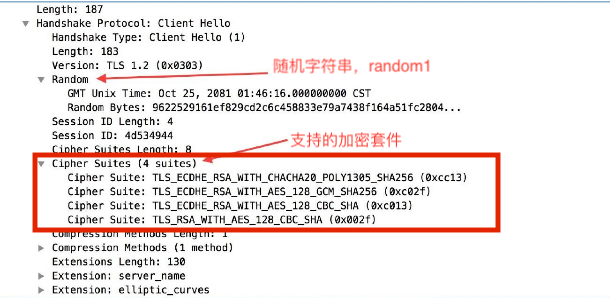
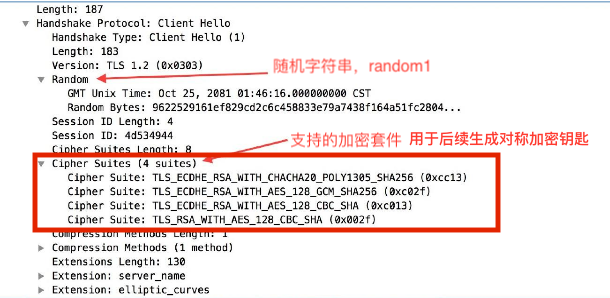
https

Changed region(s): [[0.6541, 0.4228, 0.9656, 0.5134]]

diff --git a/network/http/https.md b/network/http/https.md
@@ -25,7 +25,7 @@ ___
 
 
 ##### 对称加密 和 非对称加密
-1⃣ 非对称加密的`公钥`只能够用于加密，非对称加密的`私钥`既能加密也能够解密
+1⃣ 非对称加密中`公钥`加密只有私钥可以解开，`私钥`加密只有公钥能够解开。
 2⃣ 对称加密速度快，可以加密的信息量较大
 3⃣ 非对称加密算法复杂，加密解密速度慢，一般用于少量信息加密
   
@@ -41,6 +41,14 @@ ___
 1⃣ `SSL`（Security Socket Layer）是一种广泛运用在互联网上的资料加密协议；`TLS`是`SSL`的下一代协议。  
 2⃣ `SSL`证书 (Certificate) 像身分证一般可以在互联网上证明自己的身份。在资料的加密传输开始之前，服务器透过“有效”的`SSL`证书告诉用户端自己是值得信赖的服务器  
 3⃣ 目前`SSL`大部分是收费的，但是自己生成的`SSL`证书又不能被浏览器所信任，即不安全。
+
+### 前提工作  
+> 本段中(A与A'，B与B')表示两对非对称加密的公钥和私钥。
+
+1⃣  服务端会将准备永福通信加密的公钥(A)送到权威证书机构(CA)，CA会用一个证书将这把送过来的公钥(A)使用非对称私钥(B')进行加密。          
+![](/blog_assets/FF_CERTIFICATE.png)
+2⃣ 权威机构也会在客户的操作系统中预先安装证书，里面存放着该机构的公钥(B)，用于验证服务器发过来的证书是否合法。   
+3⃣ 这里还有一个服务端私钥(A'),会在传输`pre-master`中用到。            
 
 ### SSL\TSL 握手流程
 
@@ -75,15 +83,19 @@ ___
 > Server Hello Done 通知客户端 Server Hello 过程结束
 
 
-#### 5⃣ Certificate Verify  & Client Key Exchange
-* 客户端先从 CA 验证该证书的合法性(正规的根CA机构证书，会内置在OS内) 
-  > 注意：这里若证书合法性验证失败，则会告知用户改证书有风险。
-* 验证通过后取出证书中的服务端公钥
+#### 5⃣ Certificate Verify 
+* 客户端收到服务端的证书，使用CA机构在客户端中内置的证书公钥尝试解开证书，若不能解开，则说明证书不是真正的服务器发出的，或者证书被篡改过。   
+ 
+* 若验证通过(解得开证书)，则取出证书中的服务端公钥，准备用于非对称加密`pre-master`。
+
+
+注意：这里若证书合法性验证失败，则会告知用户改证书有风险。 
+
+![](/blog_assets/certificate_error.png)
+<!-- ![key](/blog_assets/key_exchange.png)  -->
+
+#### 各自生成对称加密套件 & Client Key Exchange  
 * 再用服务端公钥(非对称加密) 对`Random3`加密，生成 `pre-master`。并发送给服务端
-
-![key](/blog_assets/key_exchange.png) 
-
-##### 各自生成对称加密套件   
 双方都使用之前生成的(random1 + random2 + pre-master)生成了一个第一无二的加密套件，接下来准备开始，双方使用独一无二的加密套件，进行测试加密传输。
 （⭕ 记住咯，这个公钥不会被任何一次请求发送到网络上）  
 
@@ -106,7 +118,7 @@ ___
    * 服务器使用这个令牌加密需要保护的内容主体，一并发送给客户端
    
 #### 8⃣ 正式发送加密数据 
-  * 使用`public key`正式进行加密数据传输
+使用各自生成的对称秘钥`public key`正式进行对称加密数据传输。
 ___
 ##### 握手过程优化
 并不是每一次的传输都需要进行这么繁杂的握手过程，每隔一定的时间才回进行重新SSL握手。
@@ -116,6 +128,7 @@ ___
 ##### 整体优化    
 2⃣ 使用http2.0与https结合，加入多路复用、服务端推送等优势。        
 1⃣ 直接使用SPDY，[博文传送门👉](/network/http/spdy.md)
+
 
 ___
 ### 总览

diff --git a/network/http/http2.0.md b/network/http/http2.0.md
@@ -5,7 +5,7 @@ ___
 ##### 1⃣ 减少tcp握手次数，减少RTT
 在请求的资源很多的情况下，`http1.x`是会同时打开`6~8`个`tcp`链接，所以我们在前端机操作的时候，就有了压缩合并css/js资源，使用雪碧图这样的优化方案。   
 
-而http2使用单一的`长链接`去加载所有资源。有效地减少了`tcp`握手所带来的时延,特别是当请求使用了`ssl`加密请求时，握手次数会大大增加。 
+而http2使用单一的`长链接`去加载所有资源。有效地减少了`tcp`握手所带来的时延,特别是当请求使用了`ssl`加密请求时，握手次数会大大增加。    
   
 
 ![](/blog_assets/http2_multiplex_1.png)
@@ -23,11 +23,11 @@ ___
 
 ### 多路复用     
 ##### 1⃣ FIFO   
-HTTP/2把每一个资源的传输叫做流Stream，每一个流都有他的唯一id称之为stream ID。
+`HTTP 2.0` 把每一个资源的传输叫做流Stream，每一个流都有他的唯一id称之为stream ID。
 
-每个数据帧都被打上标号，就像每一批货物（每一个流）都有自己的编号。同一种货物(最后要拼装在一起的不同部分)要遵循`FIFO`的原则去传输，但是不同种货物之间，可以相互穿插，先后出发。  
+每一个流就像是一批货物，都有自己的编号，每个数据流最后都被切分为数据帧(frame)。同一种货物(最后要拼装在一起的不同`frame`)要遵循`FIFO`的原则去传输，但是不同种货物之间，可以相互穿插，先后出发。  
 
-`流id的是递增的` 
+###### `流id的是递增的` 
 已关闭的流的编号在当前连接不能复用，避免在新的流收到延迟的相同编号的老的流的帧。所以流的编号是递增的。
 
 ![多路复用](/blog_assets/HTTP2_data_frame.png)     
@@ -63,7 +63,7 @@ HTTP/2规定了多种类型的帧
 
 
 ### 压缩头部
-##### 1⃣ 明文header使用减少
+##### 1⃣ 减少明文header使用
 在http1.x中，我们可以直接在报文中看到报文头的内容，便于开发人员调试。但随着https的普及，SSL加密传输也是plain text变成了二进制，明文调试也不存在。   
 ![](/blog_assets/http2.0_helloworld.png)  
 上图是我们尝试发送一个`hello world`字符串，整个数据体加上报文头，一共超过了300个字符，浪费了很多的大小     
@@ -148,4 +148,6 @@ ___
 
 [HTTP2 帧的分类](https://blog.csdn.net/makenothing/article/details/53241399)   
 
-[从Chrome源码看http2.0](https://juejin.im/post/5aad47b1f265da23884cd5cb)
+[从Chrome源码看http2.0](https://juejin.im/post/5aad47b1f265da23884cd5cb)  
+
+[http2.0优先级](http://www.cnblogs.com/Yanss/p/10193378.html)
